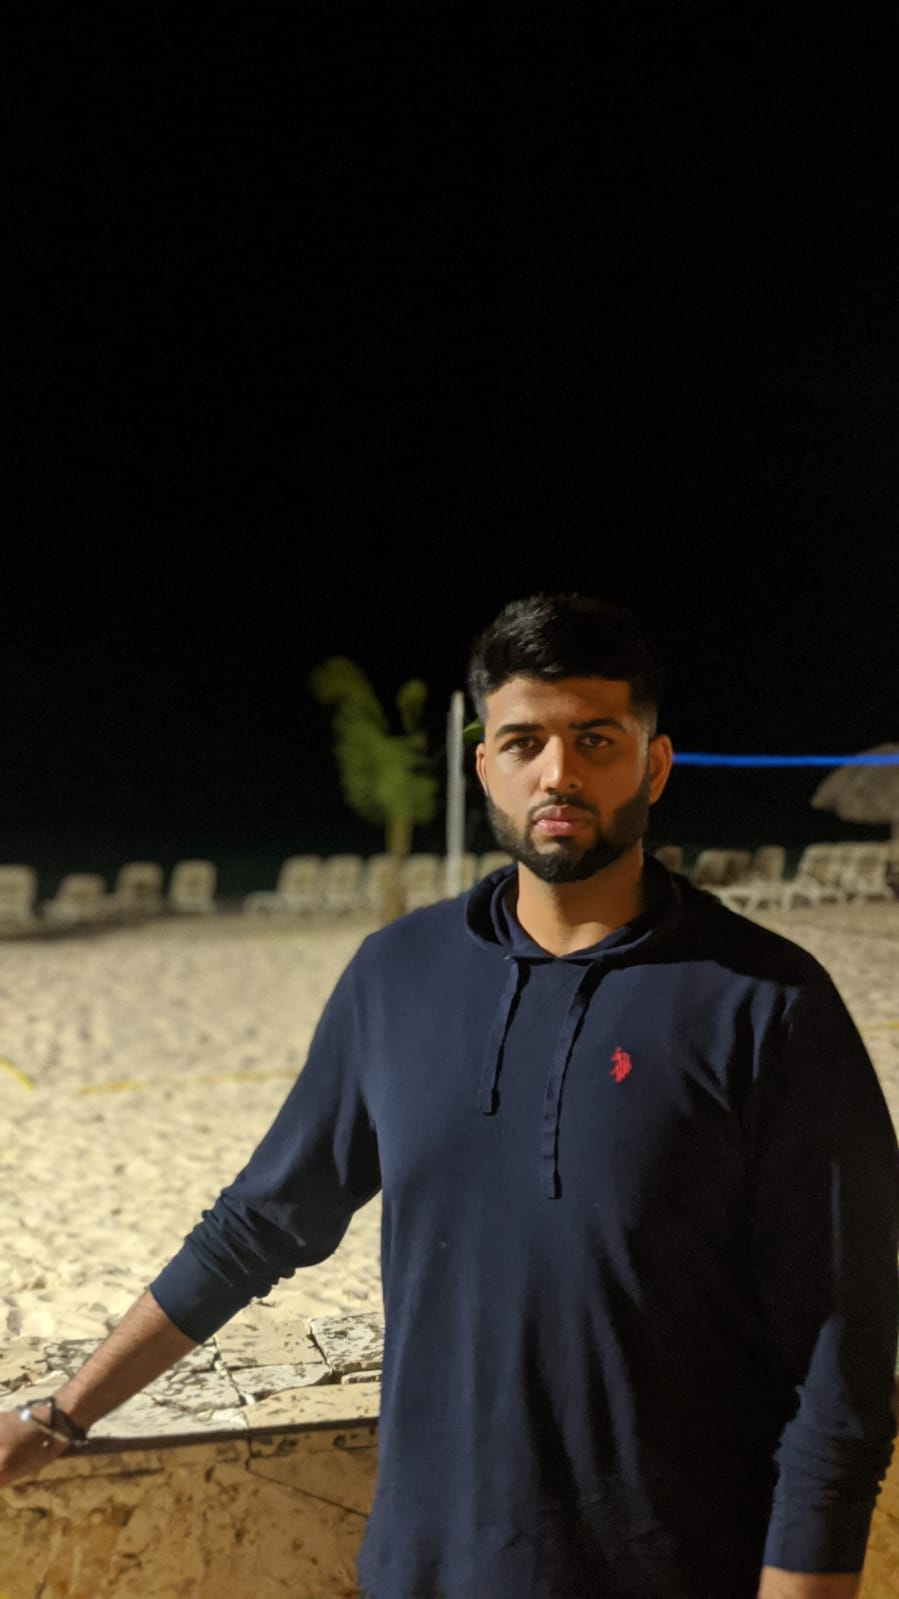
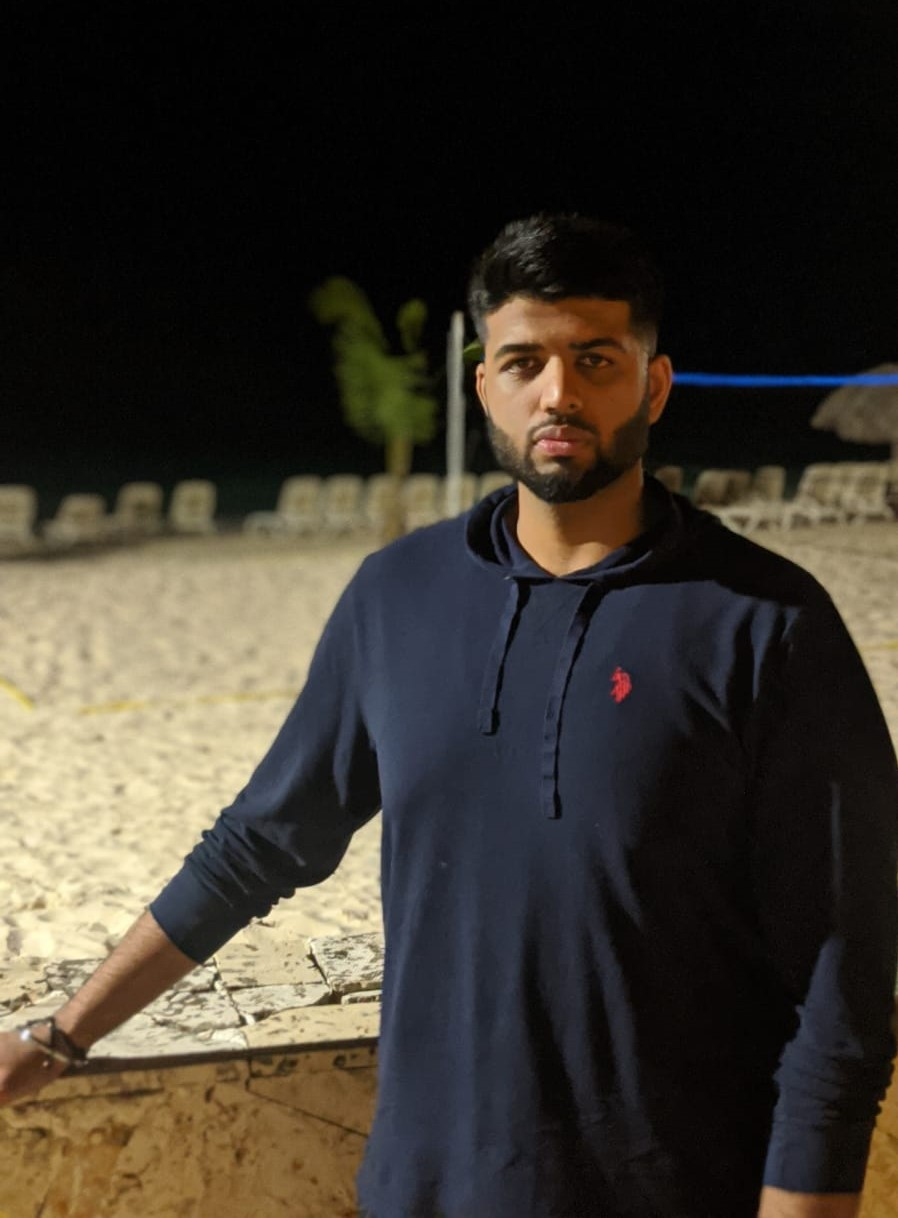
image fix

diff --git a/public/css/layout.css b/public/css/layout.css
@@ -34,7 +34,7 @@ header {
    min-height: 500px;
    width: 100%;
    background: #161415 url(../images/me/Beach.jpeg ) no-repeat;
-   background-position: 0px  -500px;
+   background-position:  center 25%;
    background-size: cover !important;
 	-webkit-background-size: cover !important;
    text-align: center;
